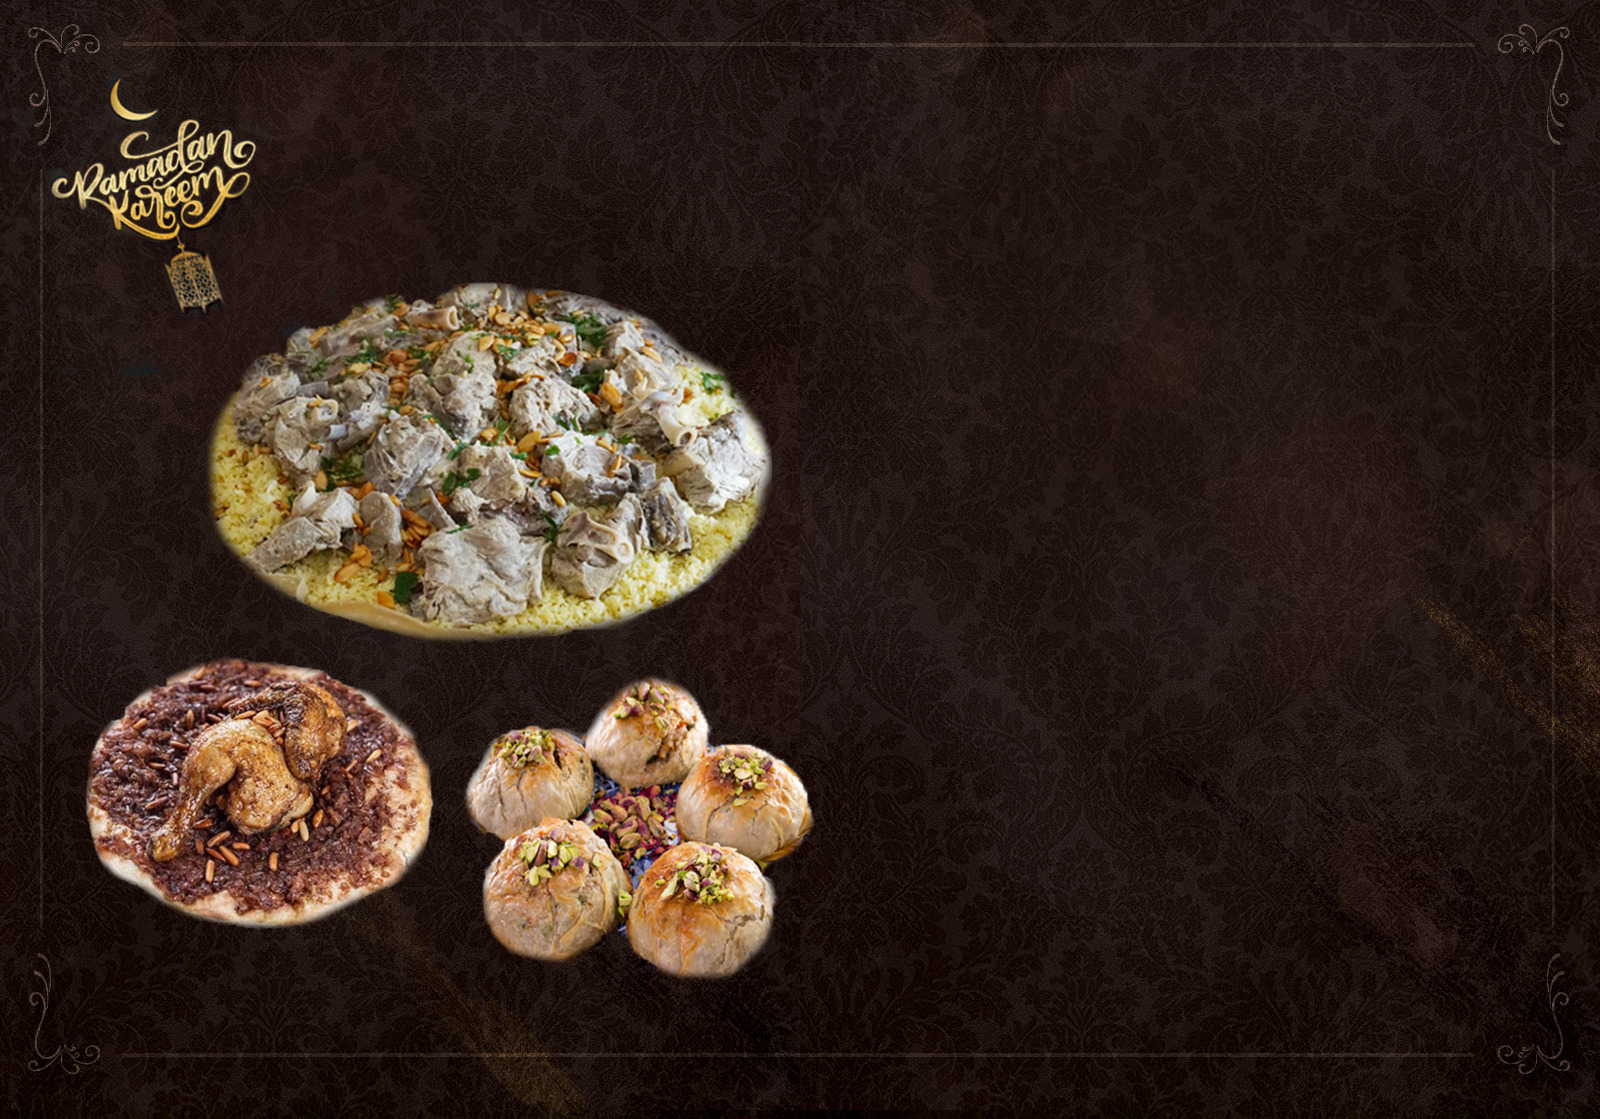
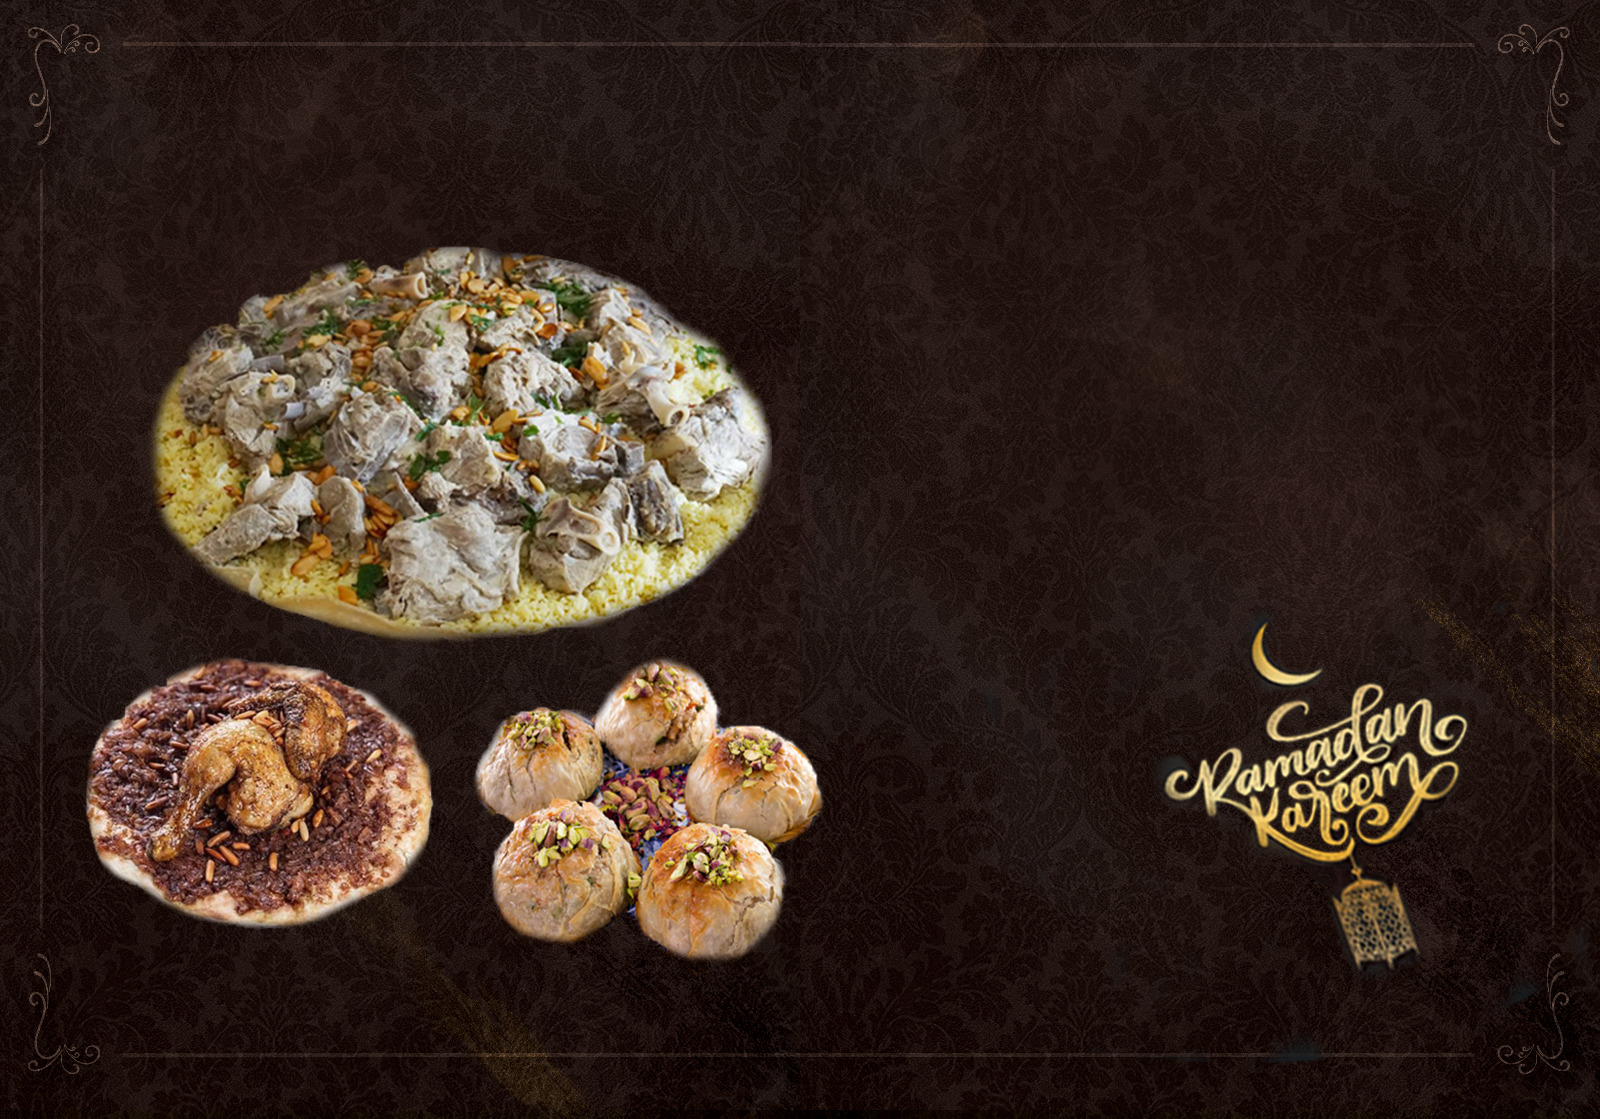
pushes

Changed region(s): [[0.0312, 0.0912, 0.5312, 0.8811], [0.7188, 0.5469, 0.9375, 0.8811]]

diff --git a/index.html b/index.html
@@ -72,6 +72,25 @@
 
     <section class="home-slider owl-carousel img" >
    
+        <div style="background-image: url(images/313134.jpeg);" class="slider-item  ">
+            <!-- <div class="overlay"></div> -->
+            <div class="container">
+                <div class="row slider-text align-items-center" data-scrollax-parent="true">
+
+                    <div class="col-md-12 col-sm-12 ftco-animate  align-items-centert mt-0 ">
+                        <span class="subheading">BUNS</span>
+                     
+                        <p><a href="#" class="btn btn-primary p-3 px-xl-4 py-xl-3 mt-4 ">Order Now</a> </p>
+
+
+                    </div>
+        
+
+                </div>
+            </div>
+        </div>
+
+
         <div style="background-image: url(images/2131.jpeg);" class="slider-item  ">
             <!-- <div class="overlay"></div> -->
             <div class="container">
@@ -84,9 +103,8 @@
 
 
                         <span class="subheading">Middle Eastern Cuisine</span>
-                        <h1 class=" subheading mb-4" style="margin-top: 0px !important;">MANSAF LAHMEH  </h1>
                         <!-- <p class="mb-4 mb-md-5">A Bun with Banana, Strawberries, Whipped Cream, Ice Cream, Choco</p> -->
-                        <p><a href="#" class="btn btn-primary p-3 px-xl-4 py-xl-3">Order Now</a> </p>
+                        <p><a href="#" class="btn btn-primary p-3 px-xl-4 py-xl-3 mt-4">Order Now</a> </p>
                     </div>
         
 
@@ -97,42 +115,19 @@
 
 
 
-        <div style="background-image: url(images/59189062_457065175114123_8659029861194530816_n.png);" class="slider-item cardcontainer ">
-            <div class="overlay"></div>
+
+        
+        <div style="background-image: url(images/3131.jpeg);" class="slider-item  ">
+            <!-- <div class="overlay"></div> -->
             <div class="container">
                 <div class="row slider-text align-items-center" data-scrollax-parent="true">
                 
 
-                    <div class="col-md-6 col-sm-12 ftco-animate mobile " >
+                    <div class="col-md-12 col-sm-12 ftco-animate  align-items-centert mt-0 ">
                         
-                        <span class="subheading">Middle Eastern Cuisine</span>
-                        <h1 class=" subheading mb-4" style="margin-top: 0px !important;">MANSAF LAHMEH  </h1>
-                        <!-- <p class="mb-4 mb-md-5">A Bun with Banana, Strawberries, Whipped Cream, Ice Cream, Choco</p> -->
-                        <p><a href="#" class="btn btn-primary p-3 px-xl-4 py-xl-3">Order Now</a> </p>
-                    </div>
-                    <!-- <div class="col-md-6 ftco-animate">
-                        <img style =" border-radius: 50%;" src="images/bg-2.jpeg" class="img-fluid" alt="">
-                    </div> -->
-
-                </div>
-            </div>
-        </div>
-
-
-
-
-        
-        <div style="background-image: url(images/59189062_457065175114123_8659029861194530816_n.png);" class="slider-item cardcontainer ">
-            <div class="overlay"></div>
-            <div class="container">
-                <div class="row slider-text align-items-center" data-scrollax-parent="true">
-                
-
-                    <div class="col-md-6 col-sm-12 ftco-animate mobile " >
                         <span class="subheading">European Cuisine</span>
-                        <h1 class=" subheading mb-4" style="margin-top: 0px !important;">Cordon Bleu  </h1>
                         <!-- <p class="mb-4 mb-md-5">A Bun with Banana, Strawberries, Whipped Cream, Ice Cream, Choco</p> -->
-                        <p><a href="#" class="btn btn-primary p-3 px-xl-4 py-xl-3">Order Now</a> </p>
+                        <p><a href="#" class="btn btn-primary p-3 px-xl-4 py-xl-3 animated fadeInRight mb-4 mt-4">Order Now</a> </p>
                     </div>
                     <!-- <div class="col-md-6 ftco-animate">
                         <img style =" border-radius: 50%;" src="images/kordon.jpeg" class="img-fluid" alt="">
@@ -143,26 +138,6 @@
         </div>
 
 
-
-        <div style="background-image: url(images/59189062_457065175114123_8659029861194530816_n.png);" class="slider-item cardcontainer ">
-            <div class="overlay"></div>
-            <div class="container">
-                <div class="row slider-text align-items-center" data-scrollax-parent="true">
-                
-
-                    <div class="col-md-6 col-sm-12 ftco-animate mobile " >
-                        <span class="subheading">Coffee & Tea</span>
-                        <h1 class=" subheading mb-4" style="margin-top: 0px !important;">Espresso  </h1>
-                        <!-- <p class="mb-4 mb-md-5">A Bun with Banana, Strawberries, Whipped Cream, Ice Cream, Choco</p> -->
-                        <p><a href="#" class="btn btn-primary p-3 px-xl-4 py-xl-3">Order Now</a> </p>
-                    </div>
-                    <!-- <div class="col-md-6 ftco-animate">
-                        <img style =" border-radius: 50%;" src="images/bun3434.png" class="img-fluid" alt="">
-                    </div> -->
-
-                </div>
-            </div>
-        </div>
         <!-- <div class="slider-item">
             <div class="overlay"></div>
             <div class="container">
@@ -263,9 +238,11 @@
             <div class="row">
                 <div class="col-md-4 ftco-animate">
                     <div class="media d-block text-center block-6 services">
+                        <a href="https://www.ubereats.com/ca/toronto/food-delivery/papparoti-restaurant/ckh6Pwd1Riao8gYnsXjBGQ">
                         <div class="icon d-flex justify-content-center align-items-center mb-5">
                             <span class="uber"> <img src="./images/logos/ubereats.png" alt="" style="width: 60px"></span>
                         </div>
+                        </a>
                         <div class="media-body">
                             <h3 class="heading">Uber Eats</h3>
                             <p style="text-align: justify;">Order Uber Eats food delivery! Browse nearby restaurants that deliver. Get fast food, brunch, lunch, dinner, groceries & more. Order food online or in-app.</p>
